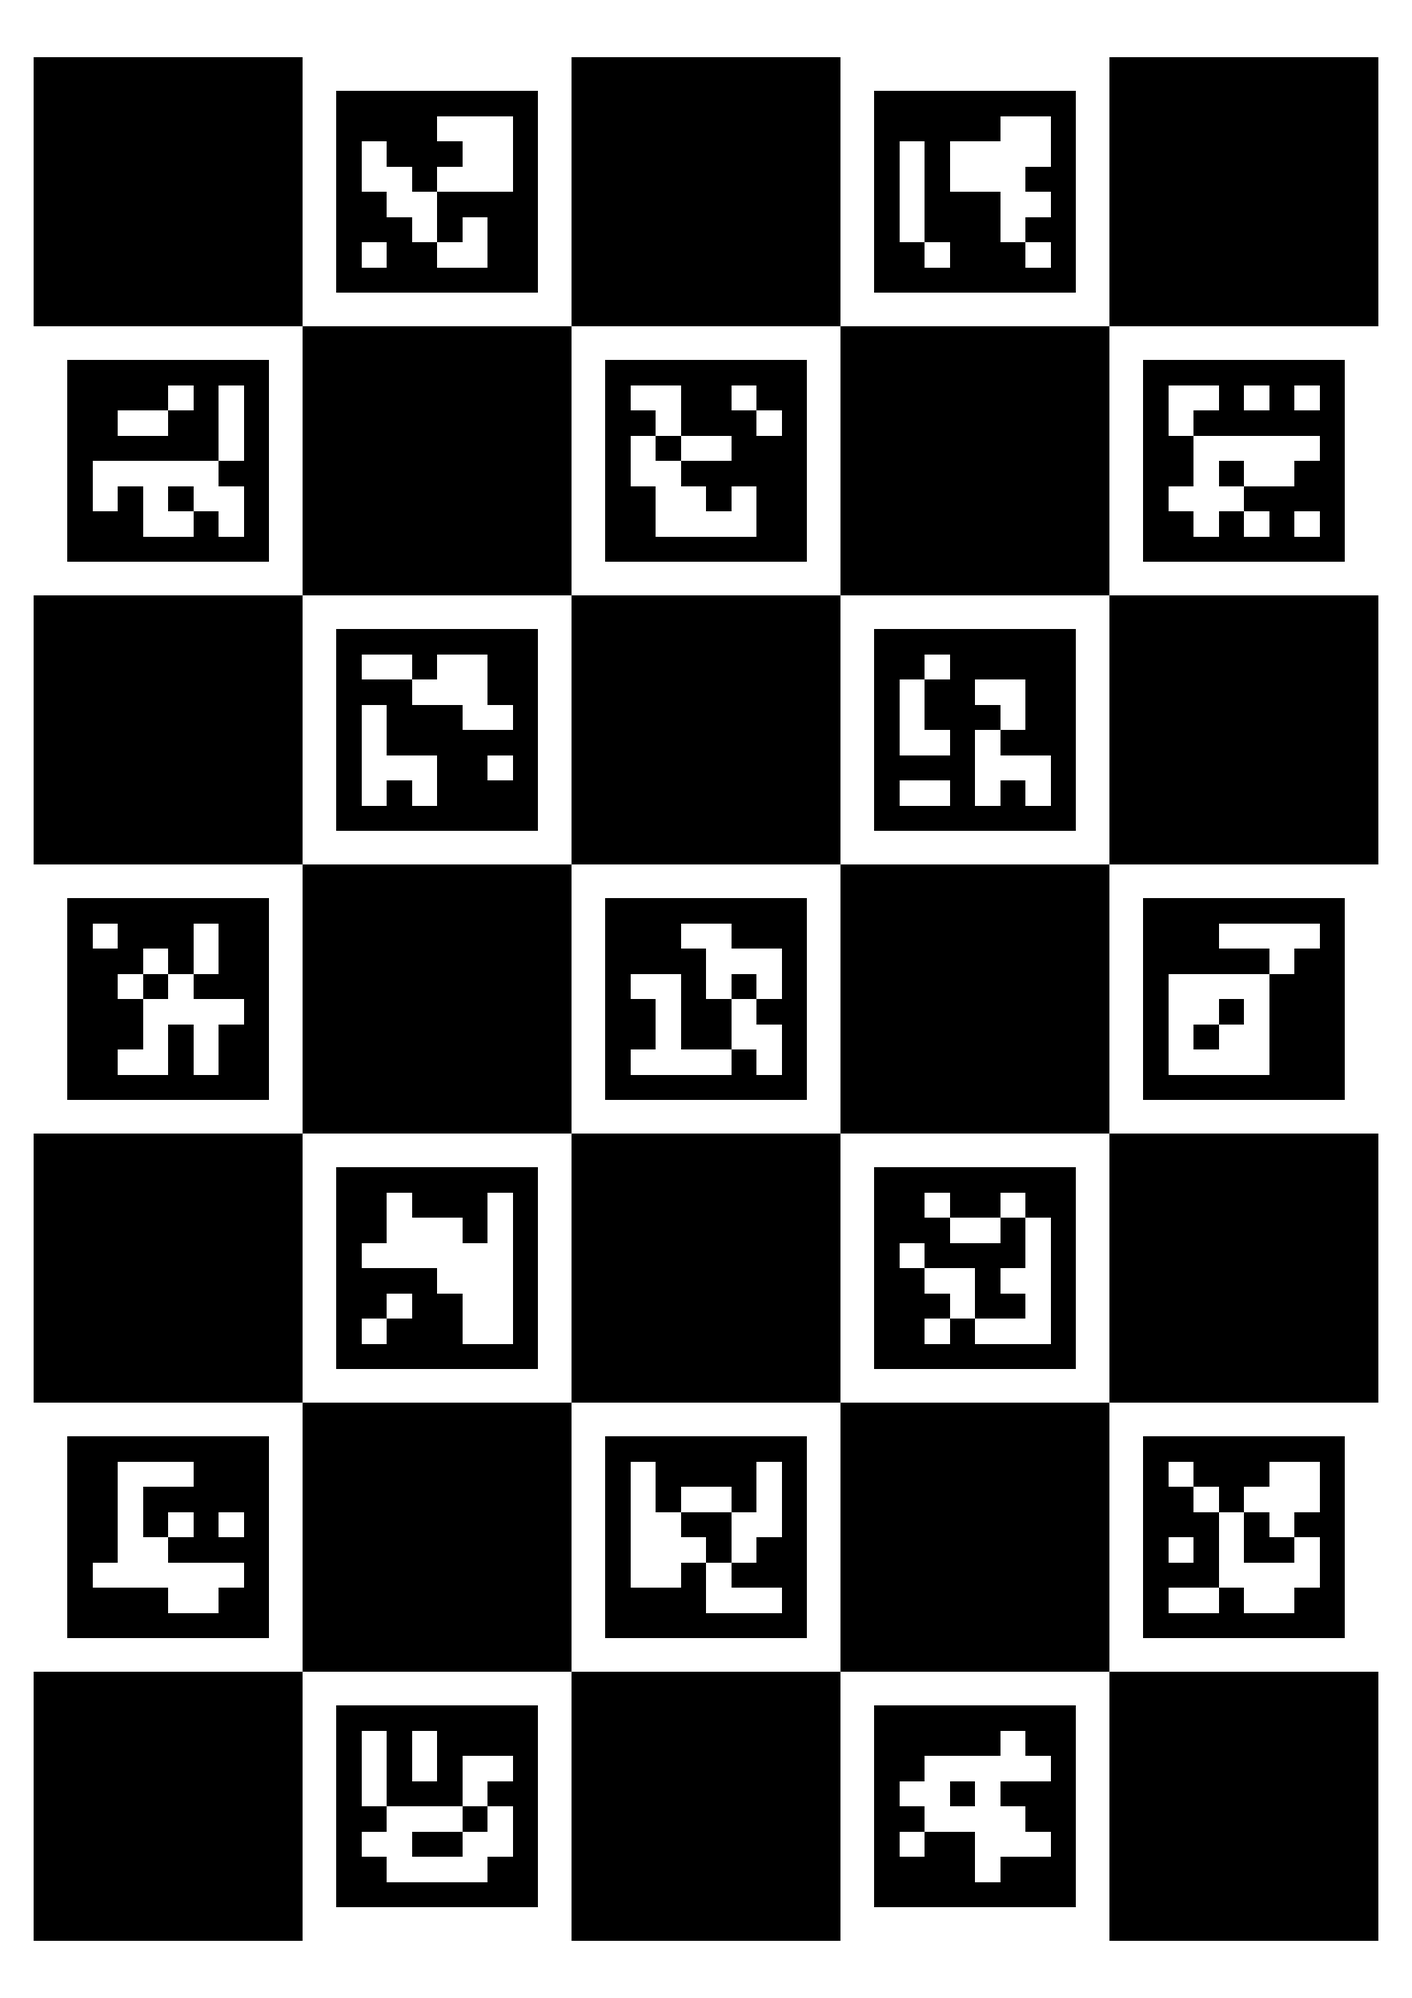
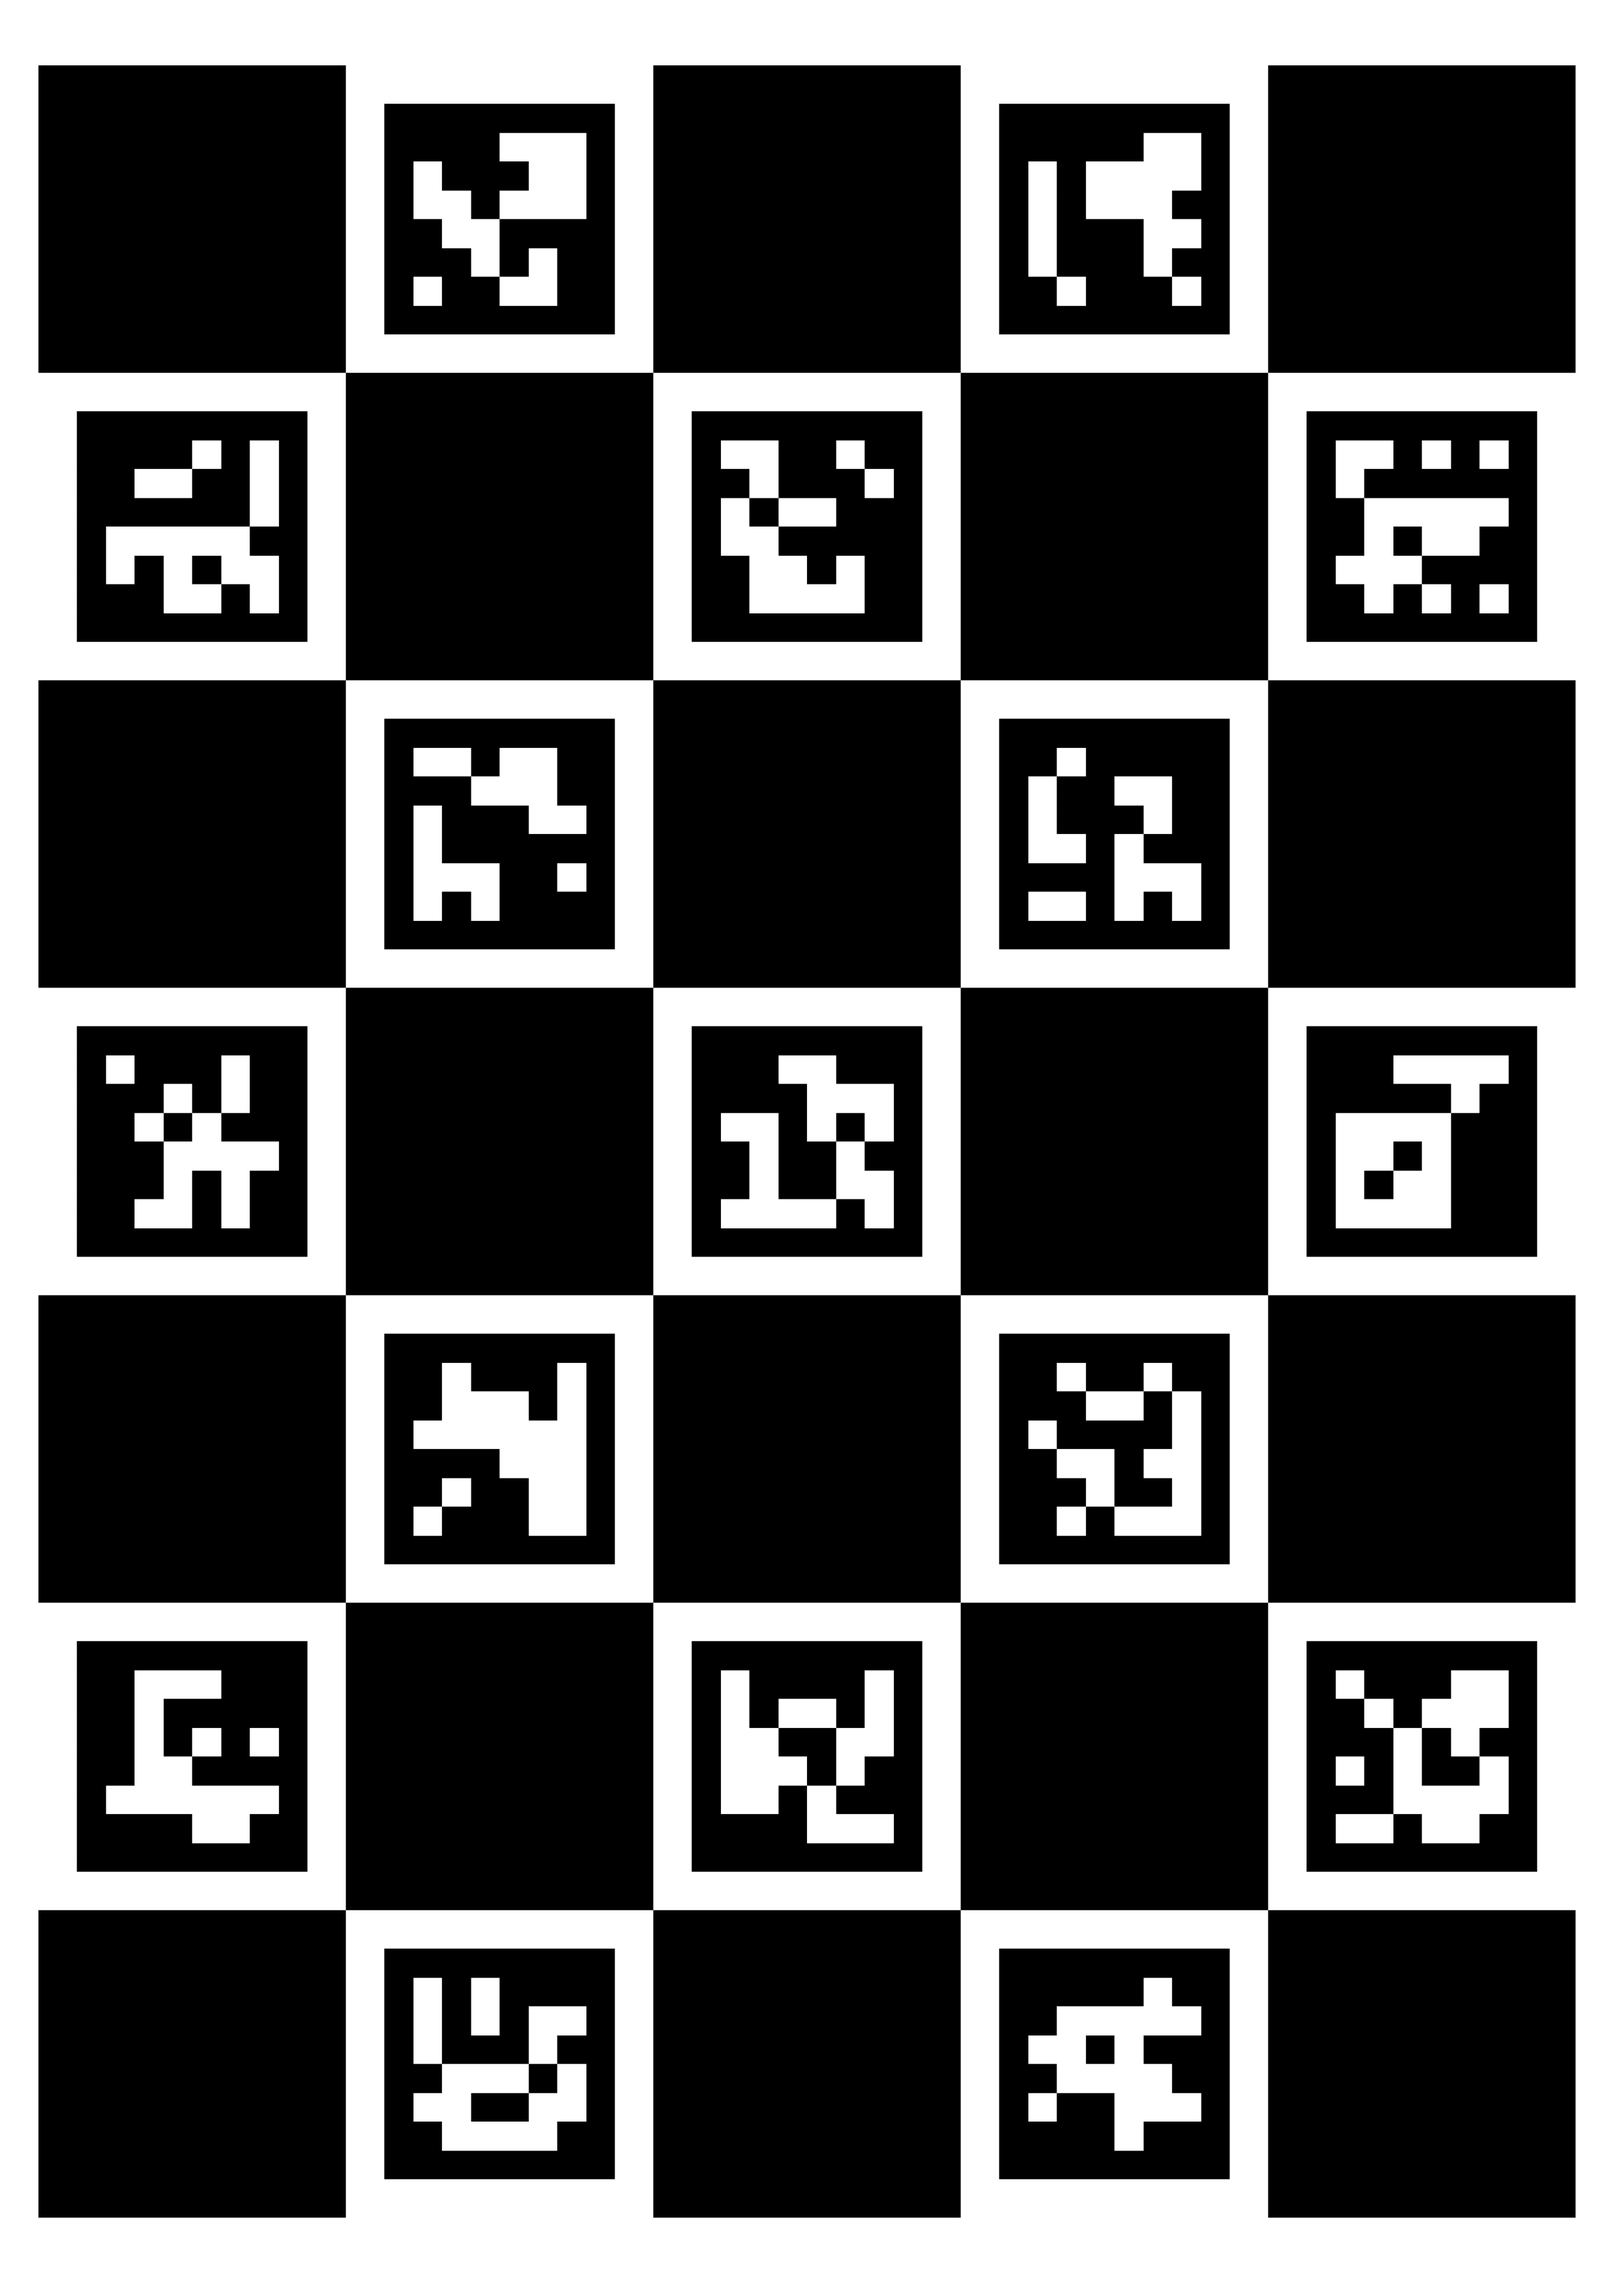
calibration update for printing

diff --git a/calibration/generate_charuco.py b/calibration/generate_charuco.py
@@ -35,7 +35,12 @@ def generate_board():
     height, width = image.shape
     confirmed_image_size = (height, width)
     print(str(IMG_SIZE) + " resized to " + str(confirmed_image_size))
-    cv2.imwrite(OUTPUT_NAME, image)
+    # scale for printing, empirical scaling factor
+    factor = 1.1428
+    printing_size = ((round)(width * factor), (round)(height * factor))
+    print("Printing size " + str(printing_size))
+    print_image = cv2.resize(image, printing_size)
+    cv2.imwrite(OUTPUT_NAME, print_image)
 
 
 generate_board()
